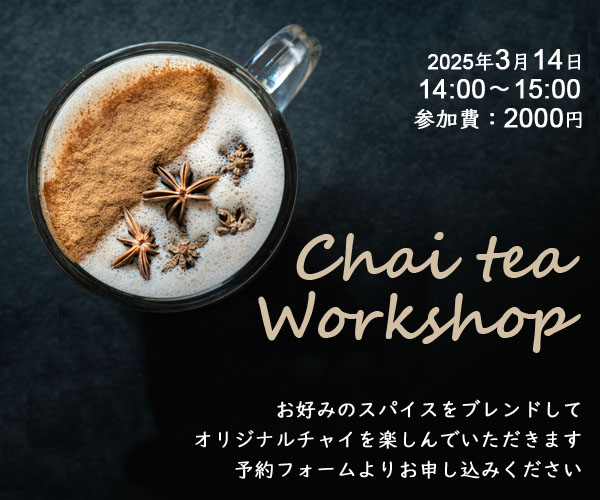
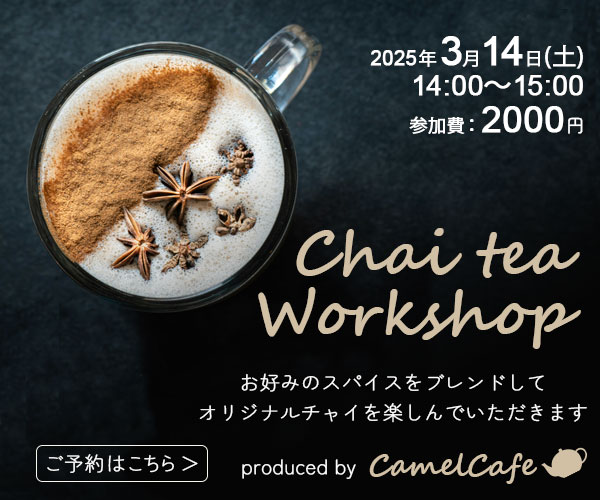
色々と調整

diff --git a/_includes/website-section.html b/_includes/website-section.html
@@ -2,18 +2,19 @@
   
   <h3 class="works-category-title">Web Sites</h3>
 
-  {% for site in site.data.websites %}
+  {% for website in site.data.websites %}
   <div class="web-item">
     
     <!-- 左側：概要とサイトへのリンクボタン -->
     <div class="web-visual">
       <div class="web-link-box">
-        <h4>{{ site.title }}</h4>
-        <p class="web-overview">{{ site.overview }}</p>
-        <p class="use-tools">使用ツール：{{ site.tools }}</p>
+        <h4>{{ website.title }}</h4>
+        <p class="web-overview">{{ website.overview }}</p>
+        <p class="use-tools">使用ツール：{{ website.tools }}</p>
+        <p><img src="{{ site.baseurl }}/assets/images/{{ website.mock }}" alt=""></p>
         
         <!-- 実際のサイトへのリンクボタン -->
-        <a href="{{ site.url }}" target="_blank" rel="noopener" class="btn-visit-site">
+        <a href="{{ website.url }}" target="_blank" rel="noopener" class="btn-visit-site">
           実際のWebサイトを見る <span>↗</span>
         </a>
       </div>
@@ -22,7 +23,7 @@
     <!-- 右側：詳細なこだわりポイント -->
     <div class="web-info">
       <ul class="point-list">
-        {% for point in site.points %}
+        {% for point in website.points %}
         <li>
           <strong>{{ point.label }}</strong>
           <p>{{ point.text }}</p>

diff --git a/_includes/about.html b/_includes/about.html
@@ -4,7 +4,7 @@
     <div class="about-content">
       <p class="lead-text">業務理解とシステム開発経験を強みとする、バックエンド出身のWebデザイナー</p>
       <p>営業事務として販売・生産管理システムや社内IT管理に携わった後、Webエンジニアへ転向。Laravel、Ruby on Rails、Go(gin)×Reactなどを用いたWebシステム開発や、WordPressサイト構築の実務経験があります。</p>
-      <p>システムの仕様やデータ構造を理解している強みを活かし、運用のしやすさを考慮したクリーンなコーディングと、論理的で実装可能なUI/UXデザインを提供します。</p>
+      <p>システムの仕様やデータ構造を理解している強みを活かし、運用のしやすさを考慮したクリーンなコーディングと、論理的なUI/UXデザインを提供します。</p>
     </div>
   </div>
 </section>

diff --git a/_sass/main.scss b/_sass/main.scss
@@ -23,6 +23,11 @@ body {
   margin: 0;
 }
 
+img {
+  width: 100%;
+  height: auto;
+}
+
 /* ==========================================================================
    Layout (レスポンシブ対応の共通コンテナ)
    ========================================================================== */

diff --git a/_sass/website.scss b/_sass/website.scss
@@ -30,6 +30,10 @@
   line-height: 1.4;
 }
 
+.web-link-box img {
+  margin-bottom: 20px;
+}
+
 .web-overview {
   font-size: 0.95rem;
   color: #555;
